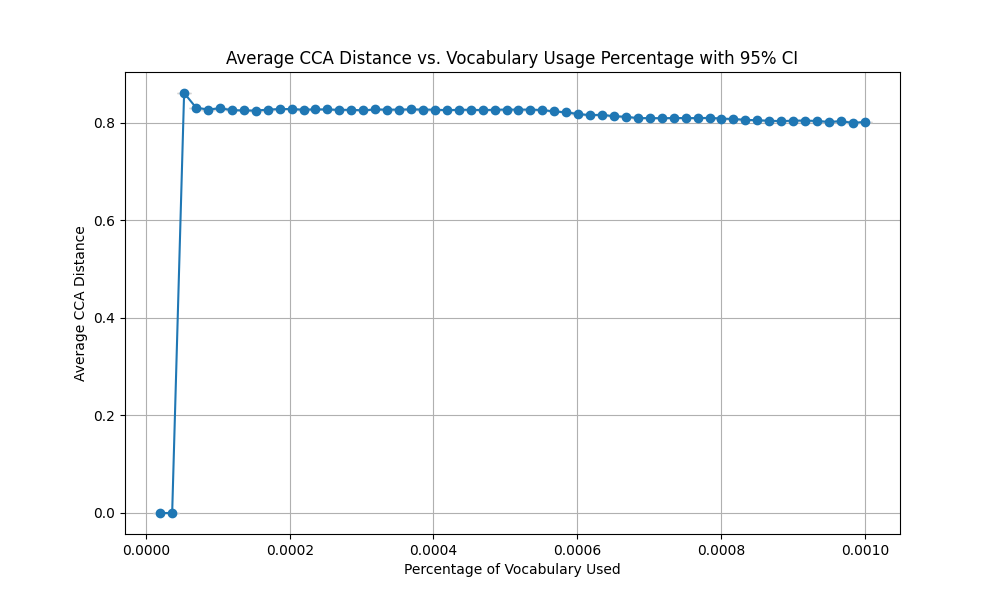
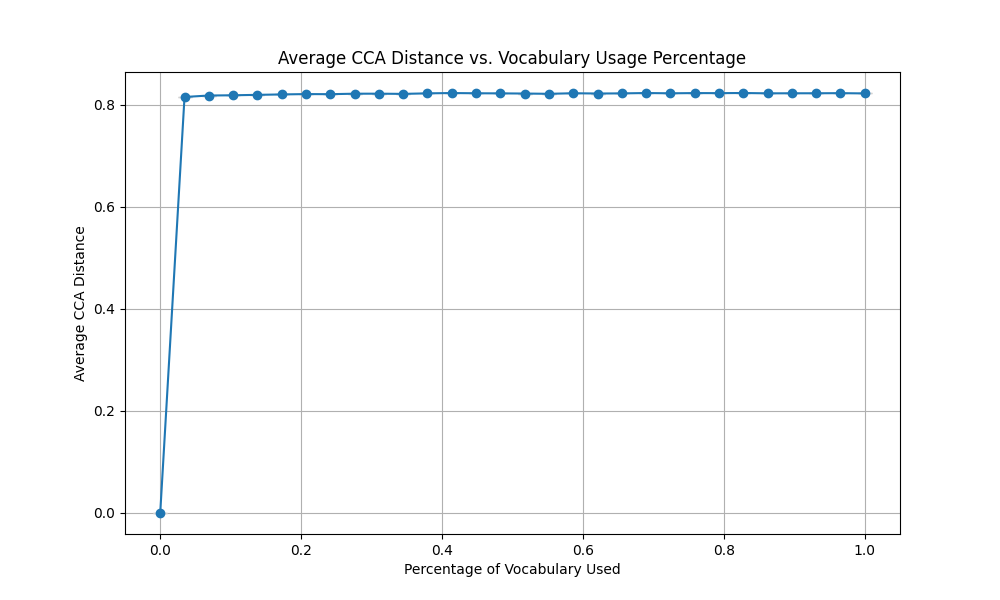
progress in dist acts

diff --git a/src/diversity/embeddings/div_act_based.py b/src/diversity/embeddings/div_act_based.py
@@ -20,13 +20,21 @@ import matplotlib.pyplot as plt
 import numpy as np
 from tqdm import tqdm
 import os
+from functools import partial
 
-from anatome.similarity import pwcca_distance_choose_best_layer_matrix, svcca_distance, linear_cka_distance, orthogonal_procrustes_distance, temporal_cca
+import sys
+print(sys.path)
+# sys.path.append('/lfs/ampere9/0/brando9/ultimate-anatome/anatome')
+# sys.path.append('/afs/cs.stanford.edu/u/brando9/ultimate-anatome/anatome')
 
-    # _default_backends = {'pwcca': partial(pwcca_distance_choose_best_layer_matrix, backend='svd', epsilon=1e-10),
-    #                      'svcca': partial(svcca_distance, accept_rate=0.99, backend='svd'),
-    #                      'lincka': partial(linear_cka_distance, reduce_bias=False),
-    #                      "opd": orthogonal_procrustes_distance}
+from anatome.similarity import pwcca_distance_choose_best_layer_matrix, svcca_distance, linear_cka_distance, orthogonal_procrustes_distance 
+# from anatome.similarity import pwcca_distance_choose_best_layer_matrix, svcca_distance, linear_cka_distance, orthogonal_procrustes_distance, temporal_cca  # darn can't remember how I defined temportal_cca
+
+metrics = {'svcca': partial(svcca_distance, accept_rate=0.99, backend='svd'),
+           'pwcca': partial(pwcca_distance_choose_best_layer_matrix, backend='svd', epsilon=1e-10),
+           'lincka': partial(linear_cka_distance, reduce_bias=False),
+            "opd": orthogonal_procrustes_distance,
+           }
 
 # Function to set all seeds for reproducibility
 def set_random_seeds(seed_value=42):
@@ -54,6 +62,7 @@ def generate_same_token_sequence(token_value: int,
                                 device: torch.device = torch.device("cuda" if torch.cuda.is_available() else "cpu")) -> torch.Tensor:
     """
     Generates a batch of token sequences where each token in the sequence is the same.
+    Used only to debug that computing CCA works 
 
     Args:
     - token_value (int): The token value to be repeated in the sequence.
@@ -75,7 +84,7 @@ def generate_same_token_sequence(token_value: int,
     
     return token_tensor
 
-def generate_semi_random_tokens_limited_vocab(tokenizer: GPT2Tokenizer, 
+def generate_semi_random_tokens_batch_limited_vocab(tokenizer: GPT2Tokenizer, 
                            sequence_length: int = 50, 
                            batch_size: int = 600, 
                            device: torch.device = torch.device("cuda" if torch.cuda.is_available() else "cpu"),
@@ -84,6 +93,7 @@ def generate_semi_random_tokens_limited_vocab(tokenizer: GPT2Tokenizer,
     """
     Generates a batch of semi-random token sequences compatible with GPT-2's tokenizer and moves them to the specified device.
     The randomness is reduced by limiting the selection to a subset of the tokenizer's vocabulary.
+    --> [B, L]
 
     Args:
     - tokenizer (GPT2Tokenizer): The tokenizer for GPT-2.
@@ -102,6 +112,7 @@ def generate_semi_random_tokens_limited_vocab(tokenizer: GPT2Tokenizer,
     batch_random_tokens = [[random.randint(0, vocab_subset_range - 1) for _ in range(sequence_length)] for _ in range(batch_size)]
     
     token_tensor = torch.tensor(batch_random_tokens, dtype=torch.long).to(device)
+    assert token_tensor.size() == torch.Size([batch_size, sequence_length]), f'Error" {token_tensor.shape=} not equal to {batch_size, sequence_length}.'
     return token_tensor
 
 def generate_random_tokens(tokenizer: GPT2Tokenizer, 
@@ -125,9 +136,11 @@ def generate_random_tokens(tokenizer: GPT2Tokenizer,
     token_tensor = torch.tensor(batch_random_tokens, dtype=torch.long).to(device)
     return token_tensor
 
-def main():
+# -- Main
+
+def _test_sanity_check_dist_btw_B1_B2_small_same_large_different():
     """
-    Main function to load the GPT-2 model, generate random tokens, and compute activations.
+    Debug distance between single pair of dataset/batches X, Y/B1, B2 of tokens works.
     """
     # Determine if CUDA (GPU support) is available and set the device accordingly
     device = torch.device("cuda" if torch.cuda.is_available() else "cpu")
@@ -145,8 +158,8 @@ def main():
     # random_tokens2 = generate_random_tokens(tokenizer).to(device)
     random_tokens1 = generate_same_token_sequence(token_value1).to(device)
     random_tokens2 = generate_same_token_sequence(token_value2).to(device)
-    random_tokens1 = generate_semi_random_tokens_limited_vocab(tokenizer).to(device)
-    random_tokens2 = generate_semi_random_tokens_limited_vocab(tokenizer).to(device)
+    random_tokens1 = generate_semi_random_tokens_batch_limited_vocab(tokenizer).to(device)
+    random_tokens2 = generate_semi_random_tokens_batch_limited_vocab(tokenizer).to(device)
     assert random_tokens1.sum().item() != random_tokens2.sum().item(), "Two random sequences of tokens are the same!"
     print(f'{random_tokens1.shape=}')
     print(f'{random_tokens2.shape=}')
@@ -157,12 +170,12 @@ def main():
     activations1 = model(random_tokens1)
     activations2 = model(random_tokens2)
     # Extract the activations tensor
-    activations1 = activations1[0]
-    activations2 = activations2[0]
-    # Reshape the activations tensor to the shape [B, T*D]
+    activations1 = activations1.last_hidden_state
+    activations2 = activations2.last_hidden_state
+    # Reshape the activations tensor to the shape [B, T*D] BAD
     # activations1 = activations1.view(activations1.size(0), -1)
     # activations2 = activations2.view(activations2.size(0), -1)
-    # Reshape the activations tensor to the shape [B*T, D]
+    # Reshape the activations tensor to the shape [B*T, D]  # BETTER
     activations1 = activations1.view(-1, activations1.size(-1))
     activations2 = activations2.view(-1, activations2.size(-1))
 
@@ -172,10 +185,15 @@ def main():
     print(f'{activations1.sum()=}')
     print(f'{activations2.sum()=}')
 
-    dist: torch.Tensor = svcca_distance(activations1, activations2)
+    dist: torch.Tensor = svcca_distance(activations1, activations2, accept_rate=0.99, backend='svd')
     # dist: torch.Tensor = pwcca_distance_choose_best_layer_matrix(activations, activations, backend='svd', epsilon=1e-10)
     # dist, dists = temporal_cca(activations1, activations2)
-    print(f'{dist=}')
+    print(f'Dist btw single pair of data sets/batches should be large (different data sets): {dist=}')
+    
+    dist: torch.Tensor = svcca_distance(activations1, activations1, accept_rate=0.99, backend='svd')
+    # dist: torch.Tensor = pwcca_distance_choose_best_layer_matrix(activations, activations, backend='svd', epsilon=1e-10)
+    # dist, dists = temporal_cca(activations1, activations2)
+    print(f'Dist btw single pair of data sets/batches should be small becuase (same data sets): {dist=}')
 
 def main2_percent_vs_avg_dist():
     """
@@ -196,8 +214,8 @@ def main2_percent_vs_avg_dist():
             print(f'{i=} percentage = {percentage}')
             torch.cuda.empty_cache()
             # Generate token sequences with the given percentage of the vocabulary
-            random_tokens1 = generate_semi_random_tokens_limited_vocab(tokenizer, percentange_vocab=percentage, device=device)
-            random_tokens2 = generate_semi_random_tokens_limited_vocab(tokenizer, percentange_vocab=percentage, device=device)
+            random_tokens1 = generate_semi_random_tokens_batch_limited_vocab(tokenizer, percentange_vocab=percentage, device=device)
+            random_tokens2 = generate_semi_random_tokens_batch_limited_vocab(tokenizer, percentange_vocab=percentage, device=device)
             torch.cuda.empty_cache()
             # Compute the activations from the model
             activations1 = model(random_tokens1)[0]
@@ -233,7 +251,7 @@ def main2_percent_vs_avg_dist():
     # save plot as .png file to ~/beyond-scale-language-data-diversity
     plt.savefig(os.path.expanduser('~/beyond-scale-language-data-diversity/avg_cca_dist_vs_vocab_usage.png'))
 
-def main3_percent_vs_avg_dist():
+def main3_percent_vs_avg_dist_with_cis():
     """
     Main function to plot the relationship between percentage of vocabulary used in token generation
     and the average CCA distance between two sets of activations from a GPT-2 model,
@@ -246,33 +264,47 @@ def main3_percent_vs_avg_dist():
     tokenizer = GPT2Tokenizer.from_pretrained('gpt2')
     print(f'{tokenizer.vocab_size=}')
 
-    percentages = np.linspace(1.0/tokenizer.vocab_size, 1.0, 30)  # Range of percentages from 0.05 to 1.0
+    metric: str = 'svcca'
+    metric: str = 'pwcca'
+    metric: str = 'lincka'
+    metric: str = 'opd'
+    start=1.0/tokenizer.vocab_size
+    stop=1.0
+    num=30
+    percentages = np.linspace(start, stop, num)  # Range of percentages from 0.05 to 1.0
     # percentages = np.linspace(1.0/tokenizer.vocab_size, 0.02, 60)  # Range of percentages from 0.05 to 1.0
     # percentages = np.linspace(1.0/tokenizer.vocab_size, 0.001, 60)  # Range of percentages from 0.05 to 1.0
+    print(f'{percentages=}')
+    print(f'x-axis (vocab) linspace range: {start=} {stop=} {num=} {metric=}')
     avg_distances = []
     ci_values = []
-
+    dist_func = metrics[metric]
     with torch.no_grad():
         for i, percentage in tqdm(enumerate(percentages)):
             print(f'{i=} percentage = {percentage}')
             torch.cuda.empty_cache()
-            random_tokens1 = generate_semi_random_tokens_limited_vocab(tokenizer, percentange_vocab=percentage, device=device)
-            random_tokens2 = generate_semi_random_tokens_limited_vocab(tokenizer, percentange_vocab=percentage, device=device)
-            activations1 = model(random_tokens1)[0]
-            activations2 = model(random_tokens2)[0]
+            # raw batch [B, L]
+            random_tokens1 = generate_semi_random_tokens_batch_limited_vocab(tokenizer, percentange_vocab=percentage, device=device)
+            random_tokens2 = generate_semi_random_tokens_batch_limited_vocab(tokenizer, percentange_vocab=percentage, device=device)
+            # act batch [B, L, D]
+            activations1 = model(random_tokens1).last_hidden_state
+            activations2 = model(random_tokens2).last_hidden_state
+            print(f'{activations1.shape=} {activations2.shape=}')
 
             activations1 = activations1.view(-1, activations1.size(-1))
             activations2 = activations2.view(-1, activations2.size(-1))
             print(f'{activations1.shape=} {activations2.shape=}')
+            print(f'{activations1.shape[0]/activations1.shape[1]=} (curse low div suggest at least 10 i.e., B/D >= 10)')
 
-            dist = svcca_distance(activations1, activations2)
+            dist = dist_func(activations1, activations2)
             # dist, _ = temporal_cca(activations1, activations2)
             dist_values = dist.view(-1).cpu().numpy()
+            print(f'{dist_values=}')
 
-            mean_dist = np.mean(dist_values)
-            std_dist = np.std(dist_values)
-            n_samples = len(dist_values)
-            ci = 1.96 * (std_dist / np.sqrt(n_samples))
+            mean_dist = float(dist_values)
+            # n_samples = len(dist_values)
+            # ci = 1.96 * (std_dist / np.sqrt(n_samples))
+            ci = 0
             div = mean_dist
             print(f'{div=} +- {ci}')
 
@@ -285,14 +317,16 @@ def main3_percent_vs_avg_dist():
     plt.errorbar(percentages, avg_distances, yerr=ci_values, fmt='-o', ecolor='lightgray', capsize=5)
     plt.xlabel('Percentage of Vocabulary Used')
     plt.ylabel('Average CCA Distance')
-    plt.title('Average CCA Distance vs. Vocabulary Usage Percentage with 95% CI')
+    # plt.title('Average CCA Distance vs. Vocabulary Usage Percentage with 95% CI')
+    plt.title('Average CCA Distance vs. Vocabulary Usage Percentage')
     plt.grid(True)
     plt.show()
-    plt.savefig(os.path.expanduser('~/beyond-scale-language-data-diversity/avg_cca_dist_vs_vocab_usage_with_ci.png'))
+    plt.savefig(os.path.expanduser(f'~/beyond-scale-language-data-diversity/avg_{metric}_dist_vs_vocab_usage_with_ci_start_{start:.2f}_stop_{stop:.2f}_num_{num}.png'))
+    print(f'x-axis (vocab) linspace range: {start=} {stop=} {num=} {metric=}')
 
 def main4_real_hf_dataset():
     """
-    Main function to load the GPT-2 model, generate random tokens, and compute activations.
+    Main function to load the GPT-2 model, generate tokens, and compute activations.
     """
     # set random seed
     set_random_seeds()
@@ -305,7 +339,6 @@ def main4_real_hf_dataset():
     model.to(device)
     tokenizer = GPT2Tokenizer.from_pretrained('gpt2')
     # print(f'{tokenizer.model_max_length=}')
-
     # Set the padding token in tokenizer to the EOS token
     if tokenizer.pad_token_id is None:
         tokenizer.pad_token = tokenizer.eos_token
@@ -357,9 +390,9 @@ def main4_real_hf_dataset():
 if __name__ == '__main__':
     import time
     start = time.time()
-    # main()
+    # _test_sanity_check_dist_btw_B1_B2_small_same_large_different()
     # main2_percent_vs_avg_dist()
-    # main3_percent_vs_avg_dist()
-    main4_real_hf_dataset()
+    main3_percent_vs_avg_dist_with_cis()
+    # main4_real_hf_dataset()
     # print secs, mins, hours elapste one line
     print(f'Done!\a Time elapsed: {(time.time() - start):.2f}secs {((time.time() - start)/60):.2f}mins {((time.time() - start)/60/60):.2f}hours\a\a')
